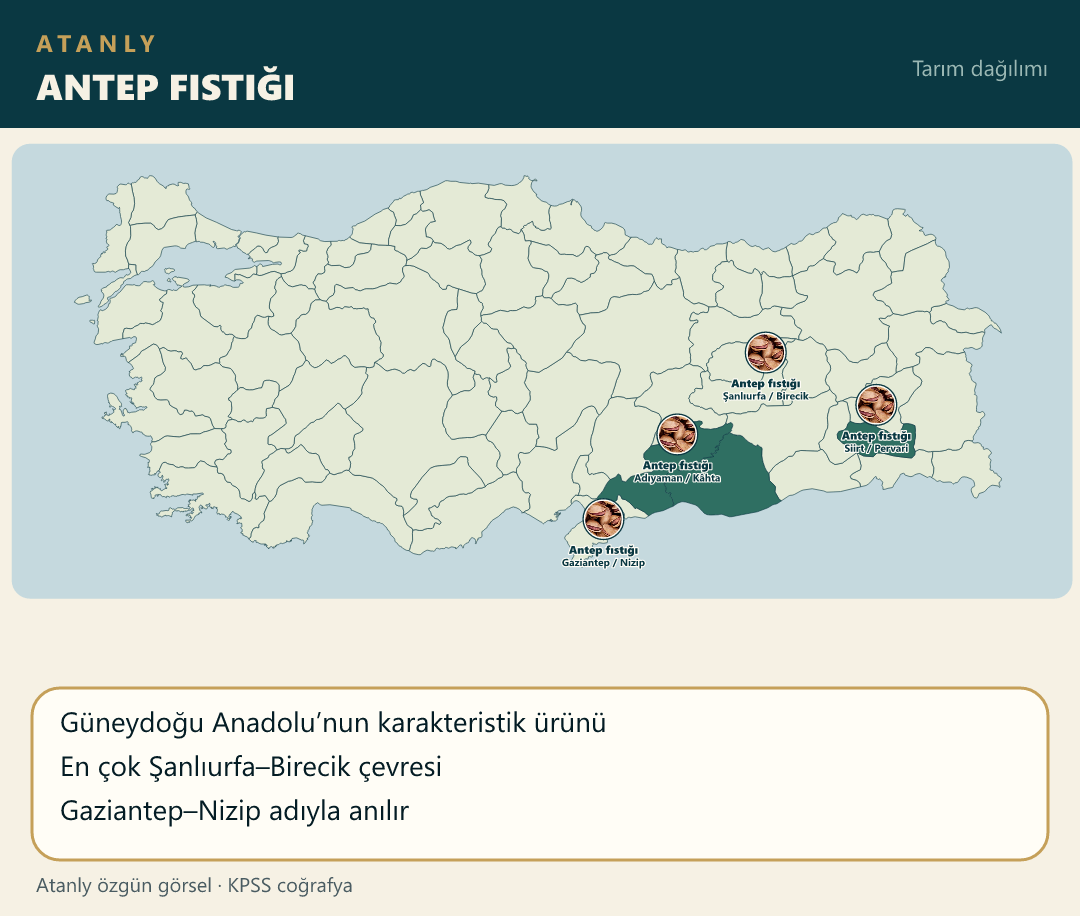
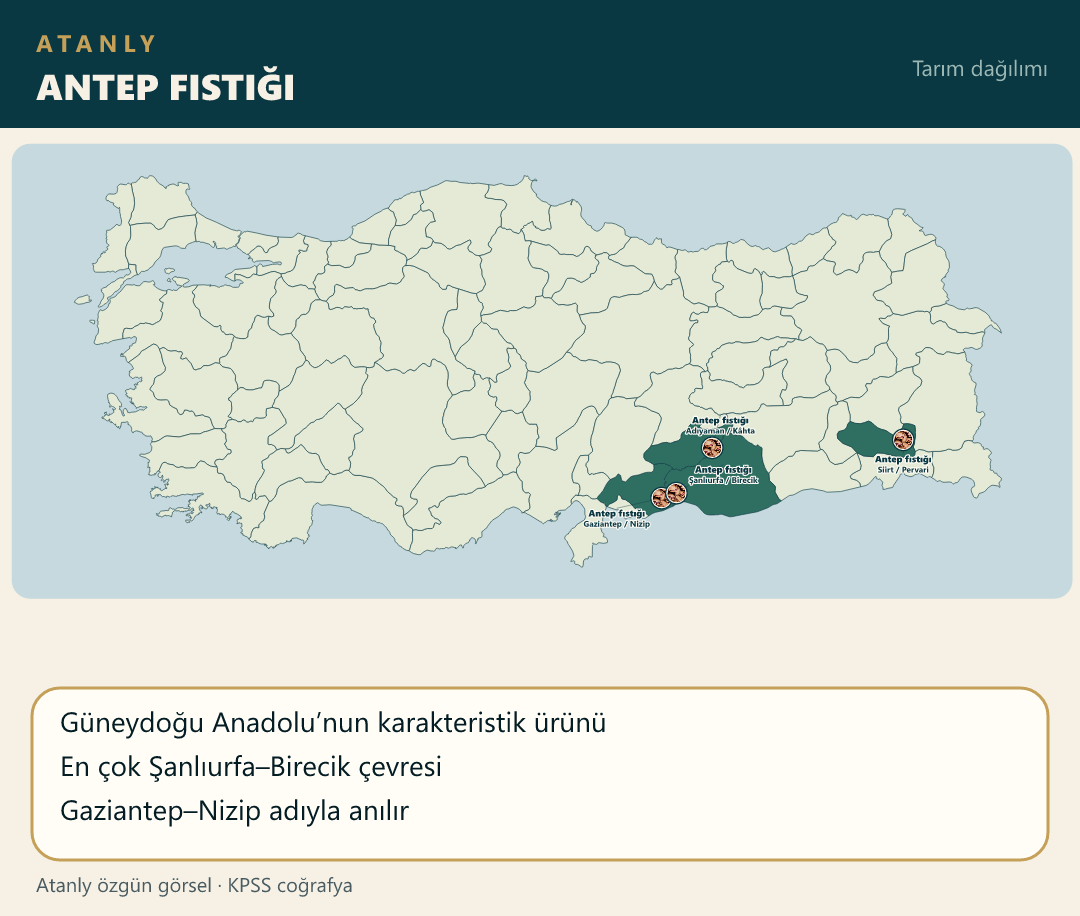
Place anason and pistachio pins on real district coordinates.
EOF

Changed region(s): [[0.5194, 0.3668, 0.7639, 0.6419], [0.7639, 0.3974, 0.8556, 0.5197]]

diff --git a/scripts/build-atanly-maps.js b/scripts/build-atanly-maps.js
@@ -82,7 +82,7 @@ function bboxFromPath(d) {
         }
     }
     if (nums.length) flush();
-    return { cx: (minX + maxX) / 2, cy: (minY + maxY) / 2 };
+    return { cx: (minX + maxX) / 2, cy: (minY + maxY) / 2, minX: minX, minY: minY, maxX: maxX, maxY: maxY, w: maxX - minX, h: maxY - minY };
 }
 
 function parseProvinces(svg) {
@@ -92,7 +92,17 @@ function parseProvinces(svg) {
     while ((m = re.exec(svg))) {
         var d = m[1];
         var bb = bboxFromPath(d);
-        out.push({ d: d, id: m[2], name: m[3], key: norm(m[3]), cx: bb.cx, cy: bb.cy });
+        out.push({ d: d, id: m[2], name: m[3], key: norm(m[3]), cx: bb.cx, cy: bb.cy, minX: bb.minX, minY: bb.minY, maxX: bb.maxX, maxY: bb.maxY, w: bb.w, h: bb.h });
+    }
+    var cre = /<circle class="[^"]*" cx="([\d.]+)" cy="([\d.]+)" id="([^"]+)"/g;
+    while ((m = cre.exec(svg))) {
+        for (var i = 0; i < out.length; i++) {
+            if (out[i].id === m[3]) {
+                out[i].capX = +m[1];
+                out[i].capY = +m[2];
+                break;
+            }
+        }
     }
     return out;
 }
@@ -107,6 +117,44 @@ var ALIAS = {
 function keyOf(name) {
     var k = norm(name);
     return ALIAS[k] || k;
+}
+
+/** İl poligonuna göre ilçe: gerçek lon/lat, kuzey y-eksi. */
+var PROV_GEO = {
+    mugla: { minLon: 27.22, maxLon: 29.38, minLat: 36.27, maxLat: 37.38 },
+    denizli: { minLon: 28.63, maxLon: 29.78, minLat: 37.28, maxLat: 38.17 },
+    burdur: { minLon: 29.55, maxLon: 30.85, minLat: 36.95, maxLat: 37.88 },
+    antalya: { minLon: 29.20, maxLon: 32.55, minLat: 36.07, maxLat: 37.40 },
+    gaziantep: { minLon: 36.83, maxLon: 37.90, minLat: 36.82, maxLat: 37.38 },
+    sanliurfa: { minLon: 37.82, maxLon: 40.23, minLat: 36.66, maxLat: 37.96 },
+    adiyaman: { minLon: 37.41, maxLon: 38.99, minLat: 37.41, maxLat: 38.22 },
+    siirt: { minLon: 41.54, maxLon: 42.65, minLat: 37.68, maxLat: 38.20 }
+};
+
+function clampPin(fp, x, y) {
+    var pad = 12;
+    if (x < fp.minX + pad) x = fp.minX + pad;
+    if (x > fp.maxX - pad) x = fp.maxX - pad;
+    if (y < fp.minY + pad) y = fp.minY + pad;
+    if (y > fp.maxY - pad) y = fp.maxY - pad;
+    return { x: x, y: y };
+}
+
+function districtXY(fp, row) {
+    if (row && row.lon != null && row.lat != null) {
+        var g = PROV_GEO[keyOf(fp.name)];
+        if (g) {
+            var fx = (Number(row.lon) - g.minLon) / (g.maxLon - g.minLon);
+            var fy = (g.maxLat - Number(row.lat)) / (g.maxLat - g.minLat);
+            return clampPin(fp, fp.minX + fx * fp.w, fp.minY + fy * fp.h);
+        }
+    }
+    if (row && row.x != null && row.y != null) return { x: +row.x, y: +row.y };
+    var ox = fp.capX != null ? fp.capX : fp.cx;
+    var oy = fp.capY != null ? fp.capY : fp.cy;
+    var x = ox + (Number(row && row.dx) || 0);
+    var y = oy + (Number(row && row.dy) || 0);
+    return clampPin(fp, x, y);
 }
 
 function findProv(provs, name) {
@@ -277,6 +325,20 @@ function nudgeLabels(pts, fs) {
 
 function labelsOnMap(pts, fs) {
     fs = fs || labelFs(pts.length);
+    var photo = pts.some(function (p) { return p.urun; });
+    if (photo) {
+        return pts.map(function (p) {
+            var lx = (p.pinX != null ? p.pinX : p.x) + (p.ldx || 0);
+            var ly = (p.pinY != null ? p.pinY : p.y) + (p.ldy != null ? p.ldy : 22);
+            var pinX = p.pinX != null ? p.pinX : p.x;
+            var pinY = p.pinY != null ? p.pinY : p.y;
+            var lead = "";
+            if (Math.abs(lx - pinX) + Math.abs(ly - pinY) > 16) {
+                lead = '<line x1="' + pinX.toFixed(1) + '" y1="' + pinY.toFixed(1) + '" x2="' + lx.toFixed(1) + '" y2="' + (ly - 8).toFixed(1) + '" stroke="' + C.navy + '" stroke-width="0.7" opacity="0.55"/>';
+            }
+            return lead + onMapText(lx, ly, p.text, 9, p);
+        }).join("");
+    }
     nudgeLabels(pts, fs);
     return pts.map(function (p) { return onMapText(p.x, p.y, p.text, fs, p); }).join("");
 }
@@ -345,14 +407,14 @@ function iconsOnMap(pts, iconName) {
             return '<image href="' + href + '" x="' + x + '" y="' + y + '" width="' + size0 + '" height="' + size0 + '" preserveAspectRatio="xMidYMid meet"/>';
         }).join("");
     }
-    var size = pts.length > 6 ? 28 : 36;
+    var size = 18;
     return pts.map(function (p, i) {
-        var cid = "ic" + i + Math.round(p.x) + Math.round(p.y);
+        var cid = "ic" + i + Math.round(p.pinX || p.x) + Math.round(p.pinY || p.y);
         var r = size / 2;
-        var cx = p.x;
-        var cy = p.y - r - 16;
+        var cx = p.pinX != null ? p.pinX : p.x;
+        var cy = p.pinY != null ? p.pinY : p.y;
         return '<defs><clipPath id="' + cid + '"><circle cx="' + cx.toFixed(1) + '" cy="' + cy.toFixed(1) + '" r="' + r + '"/></clipPath></defs>' +
-            '<circle cx="' + cx.toFixed(1) + '" cy="' + cy.toFixed(1) + '" r="' + (r + 2).toFixed(1) + '" fill="#FFFDF6" stroke="' + C.navy + '" stroke-width="1.3"/>' +
+            '<circle cx="' + cx.toFixed(1) + '" cy="' + cy.toFixed(1) + '" r="' + (r + 1.6).toFixed(1) + '" fill="#FFFDF6" stroke="' + C.navy + '" stroke-width="1.2"/>' +
             '<image href="' + href + '" x="' + (cx - r).toFixed(1) + '" y="' + (cy - r).toFixed(1) + '" width="' + size + '" height="' + size + '" clip-path="url(#' + cid + ')" preserveAspectRatio="xMidYMid slice"/>';
     }).join("");
 }
@@ -370,15 +432,22 @@ function cropMap(provs, opts) {
             return;
         }
         hi.push(row.il);
+        var pos = districtXY(fp, row);
+        if (row.lon != null) {
+            console.log("  pin", row.il, row.ilce, pos.x.toFixed(1), pos.y.toFixed(1));
+        }
         pts.push({
-            x: fp.cx, y: fp.cy, ox: fp.cx, oy: fp.cy,
+            x: pos.x, y: pos.y, ox: pos.x, oy: pos.y,
+            pinX: pos.x, pinY: pos.y,
+            ldx: row.ldx || 0,
+            ldy: row.ldy != null ? row.ldy : 26,
             text: row.yazi || row.il,
             urun: opts.urun || "",
             il: row.il,
             ilce: row.ilce || ""
         });
     });
-    spreadSameCell(pts);
+    if (!opts.urun) spreadSameCell(pts);
     var factsY = 78 + MAP_BLOCK_H + 16;
     var facts = wrapFacts(opts.facts, 16, factsY, CANVAS_W - 32, 14);
     var H = factsY + facts.h + 28;
@@ -413,10 +482,10 @@ function main() {
         { file: "muz.png", title: "MUZ ÜRETİMİ", iller: ["Mersin", "Antalya", "Hatay"], facts: ["Don olayının az olduğu kıyı kuşağı", "Anamur–Alanya çevresi yoğundur"] },
         { file: "anason.png", title: "ANASON ÜRETİMİ", urun: "Anason",
             noktalar: [
-                { il: "Burdur", ilce: "Tefenni" },
-                { il: "Denizli", ilce: "Acıpayam" },
-                { il: "Antalya", ilce: "Elmalı" },
-                { il: "Muğla", ilce: "Fethiye" }
+                { il: "Burdur", ilce: "Tefenni", lon: 29.775, lat: 37.310, ldx: 36, ldy: -4 },
+                { il: "Denizli", ilce: "Acıpayam", lon: 29.350, lat: 37.424, ldx: -48, ldy: -16 },
+                { il: "Antalya", ilce: "Elmalı", lon: 29.918, lat: 36.736, ldx: 34, ldy: 16 },
+                { il: "Muğla", ilce: "Fethiye", lon: 29.116, lat: 36.643, ldx: -38, ldy: 16 }
             ],
             facts: ["Göller Yöresi ve Teke çevresi", "Burdur–Tefenni öne çıkar", "Uçucu yağ bitkisidir"] },
         { file: "aspir.png", title: "ASPİR ÜRETİMİ", iller: ["Eskişehir", "Konya", "Ankara", "Aksaray"], facts: ["Kuraklığa dayanıklı yağ bitkisi", "İç Anadolu’da ekimi artmaktadır"] },
@@ -425,10 +494,10 @@ function main() {
         { file: "yer_fıstık.png", title: "YER FISTIĞI", iller: ["Osmaniye", "Adana", "Aydın", "Kahramanmaraş"], facts: ["Çukurova ve Osmaniye öne çıkar", "Sıcaklık ve kumlu-tınlı toprak ister"] },
         { file: "antep_fıstık.png", title: "ANTEP FISTIĞI", urun: "Antep fıstığı",
             noktalar: [
-                { il: "Gaziantep", ilce: "Nizip" },
-                { il: "Şanlıurfa", ilce: "Birecik" },
-                { il: "Siirt", ilce: "Pervari" },
-                { il: "Adıyaman", ilce: "Kâhta" }
+                { il: "Gaziantep", ilce: "Nizip", lon: 37.794, lat: 37.010, ldx: -44, ldy: 18 },
+                { il: "Şanlıurfa", ilce: "Birecik", lon: 37.977, lat: 37.025, ldx: 46, ldy: -20 },
+                { il: "Siirt", ilce: "Pervari", lon: 42.549, lat: 37.936, ldx: 0, ldy: 22 },
+                { il: "Adıyaman", ilce: "Kâhta", lon: 38.624, lat: 37.786, ldx: 8, ldy: -24 }
             ],
             facts: ["Güneydoğu Anadolu’nun karakteristik ürünü", "En çok Şanlıurfa–Birecik çevresi", "Gaziantep–Nizip adıyla anılır"] },
         { file: "kırmızı_mercimek.png", title: "KIRMIZI MERCİMEK", iller: ["Şanlıurfa", "Diyarbakır", "Mardin", "Batman"], facts: ["Güneydoğu Anadolu birinci sıradadır", "Kuraklığa dayanıklı baklagildir"] },
@@ -442,10 +511,17 @@ function main() {
         { file: "cay.jpg", title: "ÇAY ÜRETİMİ", iller: ["Rize", "Trabzon", "Artvin", "Giresun"], facts: ["Tamamı Doğu Karadeniz’dedir", "Zihni Derin tarafından Batum’dan getirilmiştir", "Dünya üretiminde Türkiye 5. sıradadır"] }
     ];
 
+    var only = process.argv.slice(2);
+    if (only.length) {
+        crops = crops.filter(function (c) {
+            return only.some(function (n) { return c.file.indexOf(n) >= 0; });
+        });
+    }
     crops.forEach(function (c) {
         writePng(path.join(IMG, c.file), cropMap(provs, c));
         console.log("ok", c.file);
     });
+    if (process.argv[2]) return;
 
     // 21 Haziran
     var term = '<line x1="430" y1="8" x2="250" y2="410" stroke="' + C.ink + '" stroke-width="5"/>';

diff --git a/notlar/cografya-19-not.js b/notlar/cografya-19-not.js
@@ -2,7 +2,7 @@
 (function () {
     function harita(src, alt) {
         return '<div class="mt-4 overflow-hidden rounded-xl border border-blue-200 dark:border-blue-700/50 bg-white dark:bg-slate-800 p-2">' +
-            '<img src="./src/img/' + src + '?v=11" alt="' + alt + ' Haritası" class="w-full h-auto rounded-lg object-contain" loading="lazy">' +
+            '<img src="./src/img/' + src + '?v=13" alt="' + alt + ' Haritası" class="w-full h-auto rounded-lg object-contain" loading="lazy">' +
             "</div>";
     }
 

diff --git a/index.html b/index.html
@@ -117,7 +117,7 @@
     <script src="notlar/cografya-16-not.js?v=3"></script>
     <script src="notlar/cografya-17-not.js?v=3"></script>
     <script src="notlar/cografya-18-not.js?v=9"></script>
-    <script src="notlar/cografya-19-not.js?v=7"></script>
+    <script src="notlar/cografya-19-not.js?v=9"></script>
     <script src="notlar/cografya-20-not.js?v=1"></script>
     <script src="notlar/cografya-21-not.js?v=4"></script>
     <script src="notlar/vatandas-1-not.js?v=3"></script>
